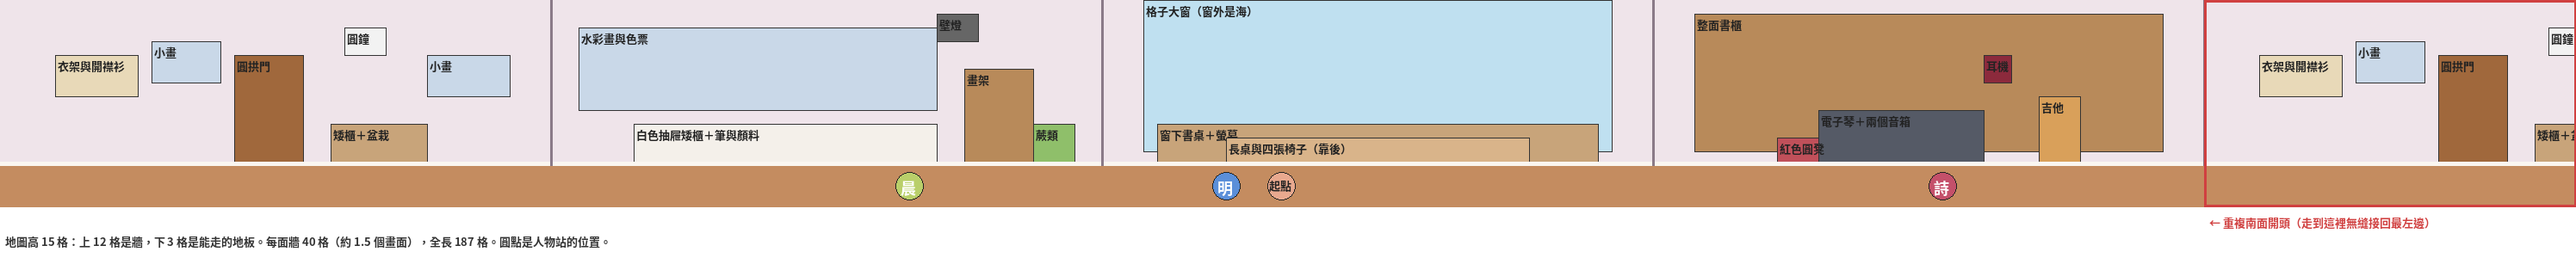
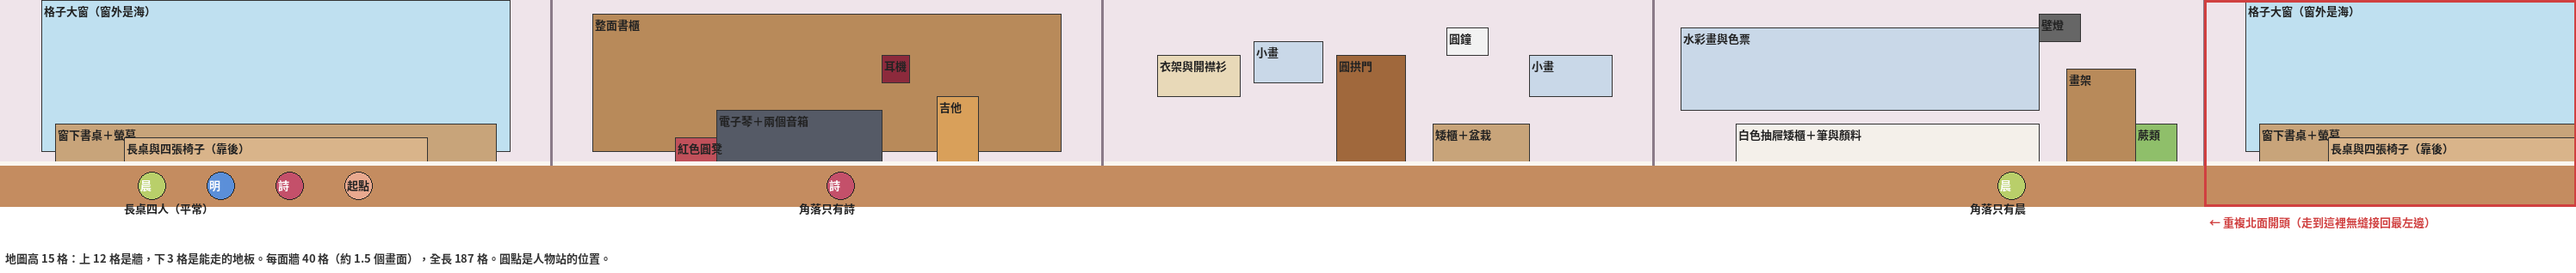
真結局：工作室配置圖改從北面起、標長桌四人與角落單人

diff --git a/真結局/studio_walls/plan.py b/真結局/studio_walls/plan.py
@@ -1,6 +1,6 @@
 # 工作室橫向捲軸的整圈配置（色塊）。一格 = 48px（遊戲裡），這張預覽一格畫 16px。
 # 地圖高 15 格：第 0–11 列是牆，第 12–14 列是能走的地板；牆腳在第 12 列上緣。
-# 從左到右：南（門）→ 西（美術牆）→ 北（大窗）→ 東（音樂角）→ 再重複南面開頭 27 格（接回起點用）。
+# 從左到右：北（大窗，起點）→ 東（音樂角）→ 南（門）→ 西（美術牆）→ 再重複北面開頭 27 格（接回起點用）。
 from PIL import Image, ImageDraw, ImageFont
 T = 16; WALL_LEN = 40; REPEAT = 27; H = 15; BASE = 12
 W = WALL_LEN * 4 + REPEAT
@@ -18,8 +18,8 @@ ITEMS = {
         (9, 3, 10, 12, "紅色圓凳", "#c0505a"), (28, 3, 7, 12, "吉他", "#d9a05a")],
 }
 WHO = {"西": (25, "晨", "#b9cf6a"), "北": (8, "明", "#5b8fd9"), "東": (20, "詩", "#c4506a")}
-ORDER = ["南", "西", "北", "東"]
-im = Image.new("RGB", (W * T, H * T + 60), "white"); d = ImageDraw.Draw(im)
+ORDER = ["北", "東", "南", "西"]
+im = Image.new("RGB", (W * T, H * T + 78), "white"); d = ImageDraw.Draw(im)
 def wall(k, x0, xmax=None):
     d.rectangle((x0 * T, 0, (x0 + (xmax or WALL_LEN)) * T, BASE * T), fill="#efe4ea")
     for (x, w, top, bot, name, col) in ITEMS[k]:
@@ -30,17 +30,22 @@ def wall(k, x0, xmax=None):
         d.text((box[0] + 3, box[1] + 2), name, font=F, fill="#222")
     d.text((x0 * T + 6, BASE * T + 50 - 40), f"{k}面", font=FB, fill="#333")
 for i, k in enumerate(ORDER): wall(k, i * WALL_LEN)
-wall("南", 4 * WALL_LEN, REPEAT)
+wall("北", 4 * WALL_LEN, REPEAT)
 d.rectangle((0, BASE * T, W * T, H * T), fill="#c48c60")                       # 地板（可走 3 格）
 d.rectangle((0, BASE * T - 4, W * T, BASE * T), fill="#faf6f0")                  # 踢腳板
 for i in range(1, 5): d.line((i * WALL_LEN * T, 0, i * WALL_LEN * T, BASE * T), fill="#8a7a88", width=3)   # 牆角
-for k, (x, n, col) in WHO.items():
-    xx = (ORDER.index(k) * WALL_LEN + x) * T; d.ellipse((xx, (BASE + 0.5) * T, xx + 2 * T, (BASE + 2.5) * T), fill=col, outline="#222")
-    d.text((xx + 6, (BASE + 0.8) * T), n, font=FB, fill="white")
-xx = (2 * WALL_LEN + 12) * T; d.ellipse((xx, (BASE + 0.5) * T, xx + 2 * T, (BASE + 2.5) * T), fill="#e9a98f", outline="#222"); d.text((xx + 2, (BASE + 0.8) * T), "起點", font=F, fill="#222")
+def dot(xt, label, col, txt="white"):
+    xx = xt * T; d.ellipse((xx, (BASE + 0.5) * T, xx + 2 * T, (BASE + 2.5) * T), fill=col, outline="#222"); d.text((xx + 3, (BASE + 0.8) * T), label, font=F, fill=txt)
+# 長桌四人（平常）：北面
+for xt, n, col in ((10, "晨", "#b9cf6a"), (15, "明", "#5b8fd9"), (20, "詩", "#c4506a")): dot(xt, n, col)
+dot(25, "起點", "#e9a98f", "#222")
+d.text((9 * T, (BASE + 2.6) * T - 2), "長桌四人（平常）", font=F, fill="#222")
+# 角落單人：走過去時才出現，長桌那位同時消失
+dot(1 * WALL_LEN + 20, "詩", "#c4506a"); d.text(((WALL_LEN + 18) * T, (BASE + 2.6) * T - 2), "角落只有詩", font=F, fill="#222")
+dot(3 * WALL_LEN + 25, "晨", "#b9cf6a"); d.text(((3 * WALL_LEN + 23) * T, (BASE + 2.6) * T - 2), "角落只有晨", font=F, fill="#222")
 d.rectangle((4 * WALL_LEN * T, 0, W * T, H * T), outline="#d04040", width=3)
-d.text((4 * WALL_LEN * T + 6, H * T + 8), "← 重複南面開頭（走到這裡無縫接回最左邊）", font=F, fill="#d04040")
-d.text((6, H * T + 30), "地圖高 15 格：上 12 格是牆，下 3 格是能走的地板。每面牆 40 格（約 1.5 個畫面），全長 187 格。圓點是人物站的位置。", font=F, fill="#333")
+d.text((4 * WALL_LEN * T + 6, H * T + 8), "← 重複北面開頭（走到這裡無縫接回最左邊）", font=F, fill="#d04040")
+d.text((6, H * T + 50), "地圖高 15 格：上 12 格是牆，下 3 格是能走的地板。每面牆 40 格（約 1.5 個畫面），全長 187 格。圓點是人物站的位置。", font=F, fill="#333")
 im.save("plan_full.png")
 # 兩排版（方便看）
 half = (2 * WALL_LEN) * T
